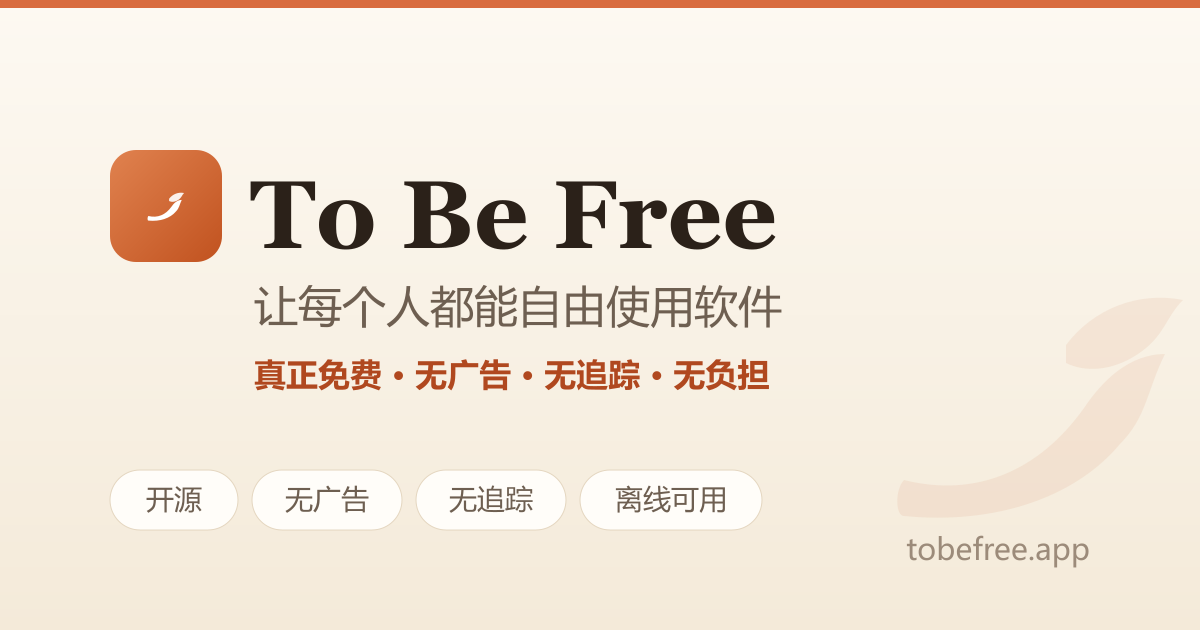
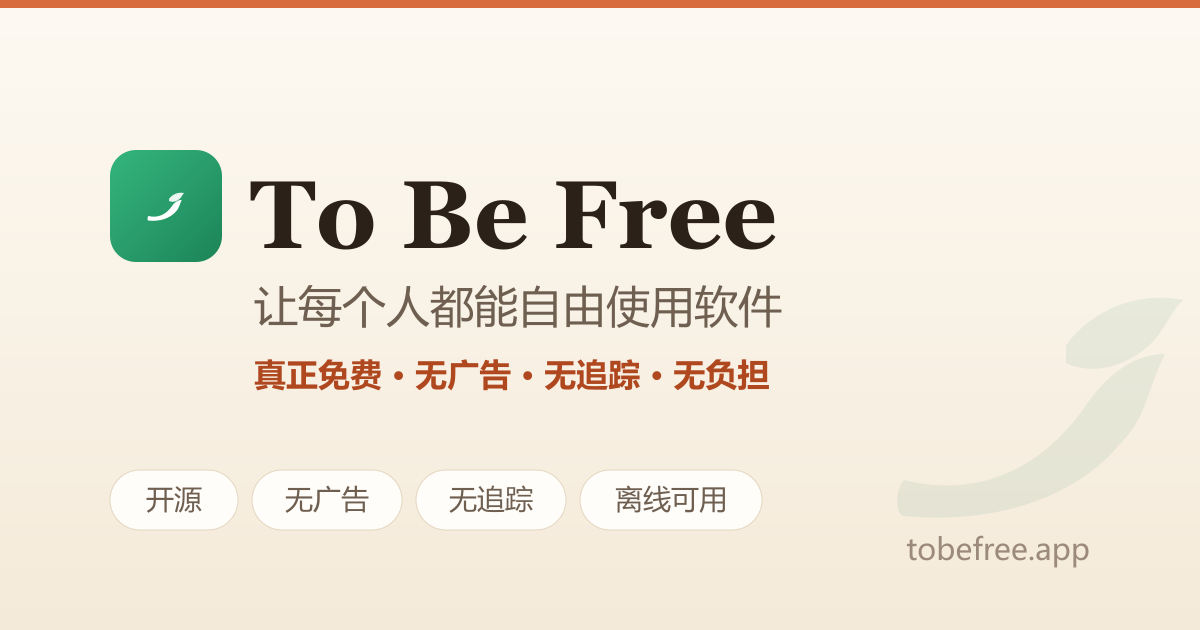
图标改自由绿 + 补齐 SEO/GEO
- logo/favicon/OG 改为自由绿实心标，头部用清晰 SVG（替换 emoji）
- 生成 apple-touch-icon 与 192/512 PWA 图标 + site.webmanifest
- SEO：robots meta、OG 尺寸/alt、BreadcrumbList（工具/分类页）、ItemList（分类页）、FAQPage（关于页）
- GEO：新增动态 /llms.txt 站点地图（69 款工具，供 AI 搜索引擎理解引用）
- 修正 SITE.repo 指向真实仓库

Changed region(s): [[0.0925, 0.2111, 0.185, 0.4222]]

diff --git a/src/pages/llms.txt.ts b/src/pages/llms.txt.ts
@@ -1,0 +1,44 @@
+import type { APIRoute } from 'astro';
+import { SITE, CATEGORIES, pick } from '../consts';
+import { localizedPath } from '../i18n/utils';
+import { getAllTools, getSelfMade } from '../lib/tools';
+
+// GEO: an /llms.txt map so AI search engines (ChatGPT, Perplexity, Google AI…)
+// can understand and cite the catalog. Generated from the live data.
+export const GET: APIRoute = async () => {
+  const tools = await getAllTools();
+  const selfMade = await getSelfMade();
+  const abs = (p: string) => new URL(p, SITE.url).href;
+
+  const line = (t: (typeof tools)[number]) => {
+    const badges = t.data.badges.join(', ');
+    const site = t.data.website ? ` Official site: ${t.data.website}.` : '';
+    return `- [${t.data.name}](${abs(localizedPath('en', `tools/${t.id}`))}): ${pick(t.data.tagline, 'en')} — ${t.data.license || 'free'}, ${t.data.price}.${site}${badges ? ` [${badges}]` : ''}`;
+  };
+
+  let md = `# To Be Free\n\n`;
+  md += `> To Be Free is a curated directory of genuinely free, usable, burden-free software — no ads, no tracking, no forced sign-ups. Bilingual (中文 / English), fully static, zero tracking. Mission: everyone should be able to use software freely.\n\n`;
+  md += `We only list tools whose core features are permanently free, that carry no ads, and that don't force an account or track you. Open source is preferred but not required; every tool is tagged with "freedom badges": open-source, no-ads, no-tracking, offline, no-signup, cross-platform, self-hostable. We link only to each tool's official website and downloads — we never host installers ourselves.\n\n`;
+  md += `- Homepage: ${abs(localizedPath('en', ''))} (中文: ${abs(localizedPath('zh', ''))})\n`;
+  md += `- All tools: ${abs(localizedPath('en', 'tools'))}\n`;
+  md += `- Our standards / About: ${abs(localizedPath('en', 'about'))}\n`;
+  md += `- Total tools listed: ${tools.length}\n\n`;
+
+  for (const cat of CATEGORIES) {
+    const inCat = tools.filter((t) => t.data.category === cat.id && !t.data.selfMade);
+    if (!inCat.length) continue;
+    md += `## ${pick(cat.label, 'en')}\n\n`;
+    for (const t of inCat) md += line(t) + '\n';
+    md += '\n';
+  }
+
+  if (selfMade.length) {
+    md += `## Our own free software (made by To Be Free)\n\n`;
+    for (const t of selfMade) md += line(t) + '\n';
+    md += '\n';
+  }
+
+  return new Response(md, {
+    headers: { 'Content-Type': 'text/plain; charset=utf-8' },
+  });
+};

diff --git a/src/consts.ts b/src/consts.ts
@@ -10,7 +10,7 @@ export const SITE = {
   defaultLocale: 'zh' as const,
   locales: ['zh', 'en'] as const,
   /** GitHub repo used by the "submit a tool" flow; edit to your repo. */
-  repo: 'https://github.com/tobefree/tobefree',
+  repo: 'https://github.com/zhitongblog/tobefree',
 };
 
 export type Locale = (typeof SITE.locales)[number];